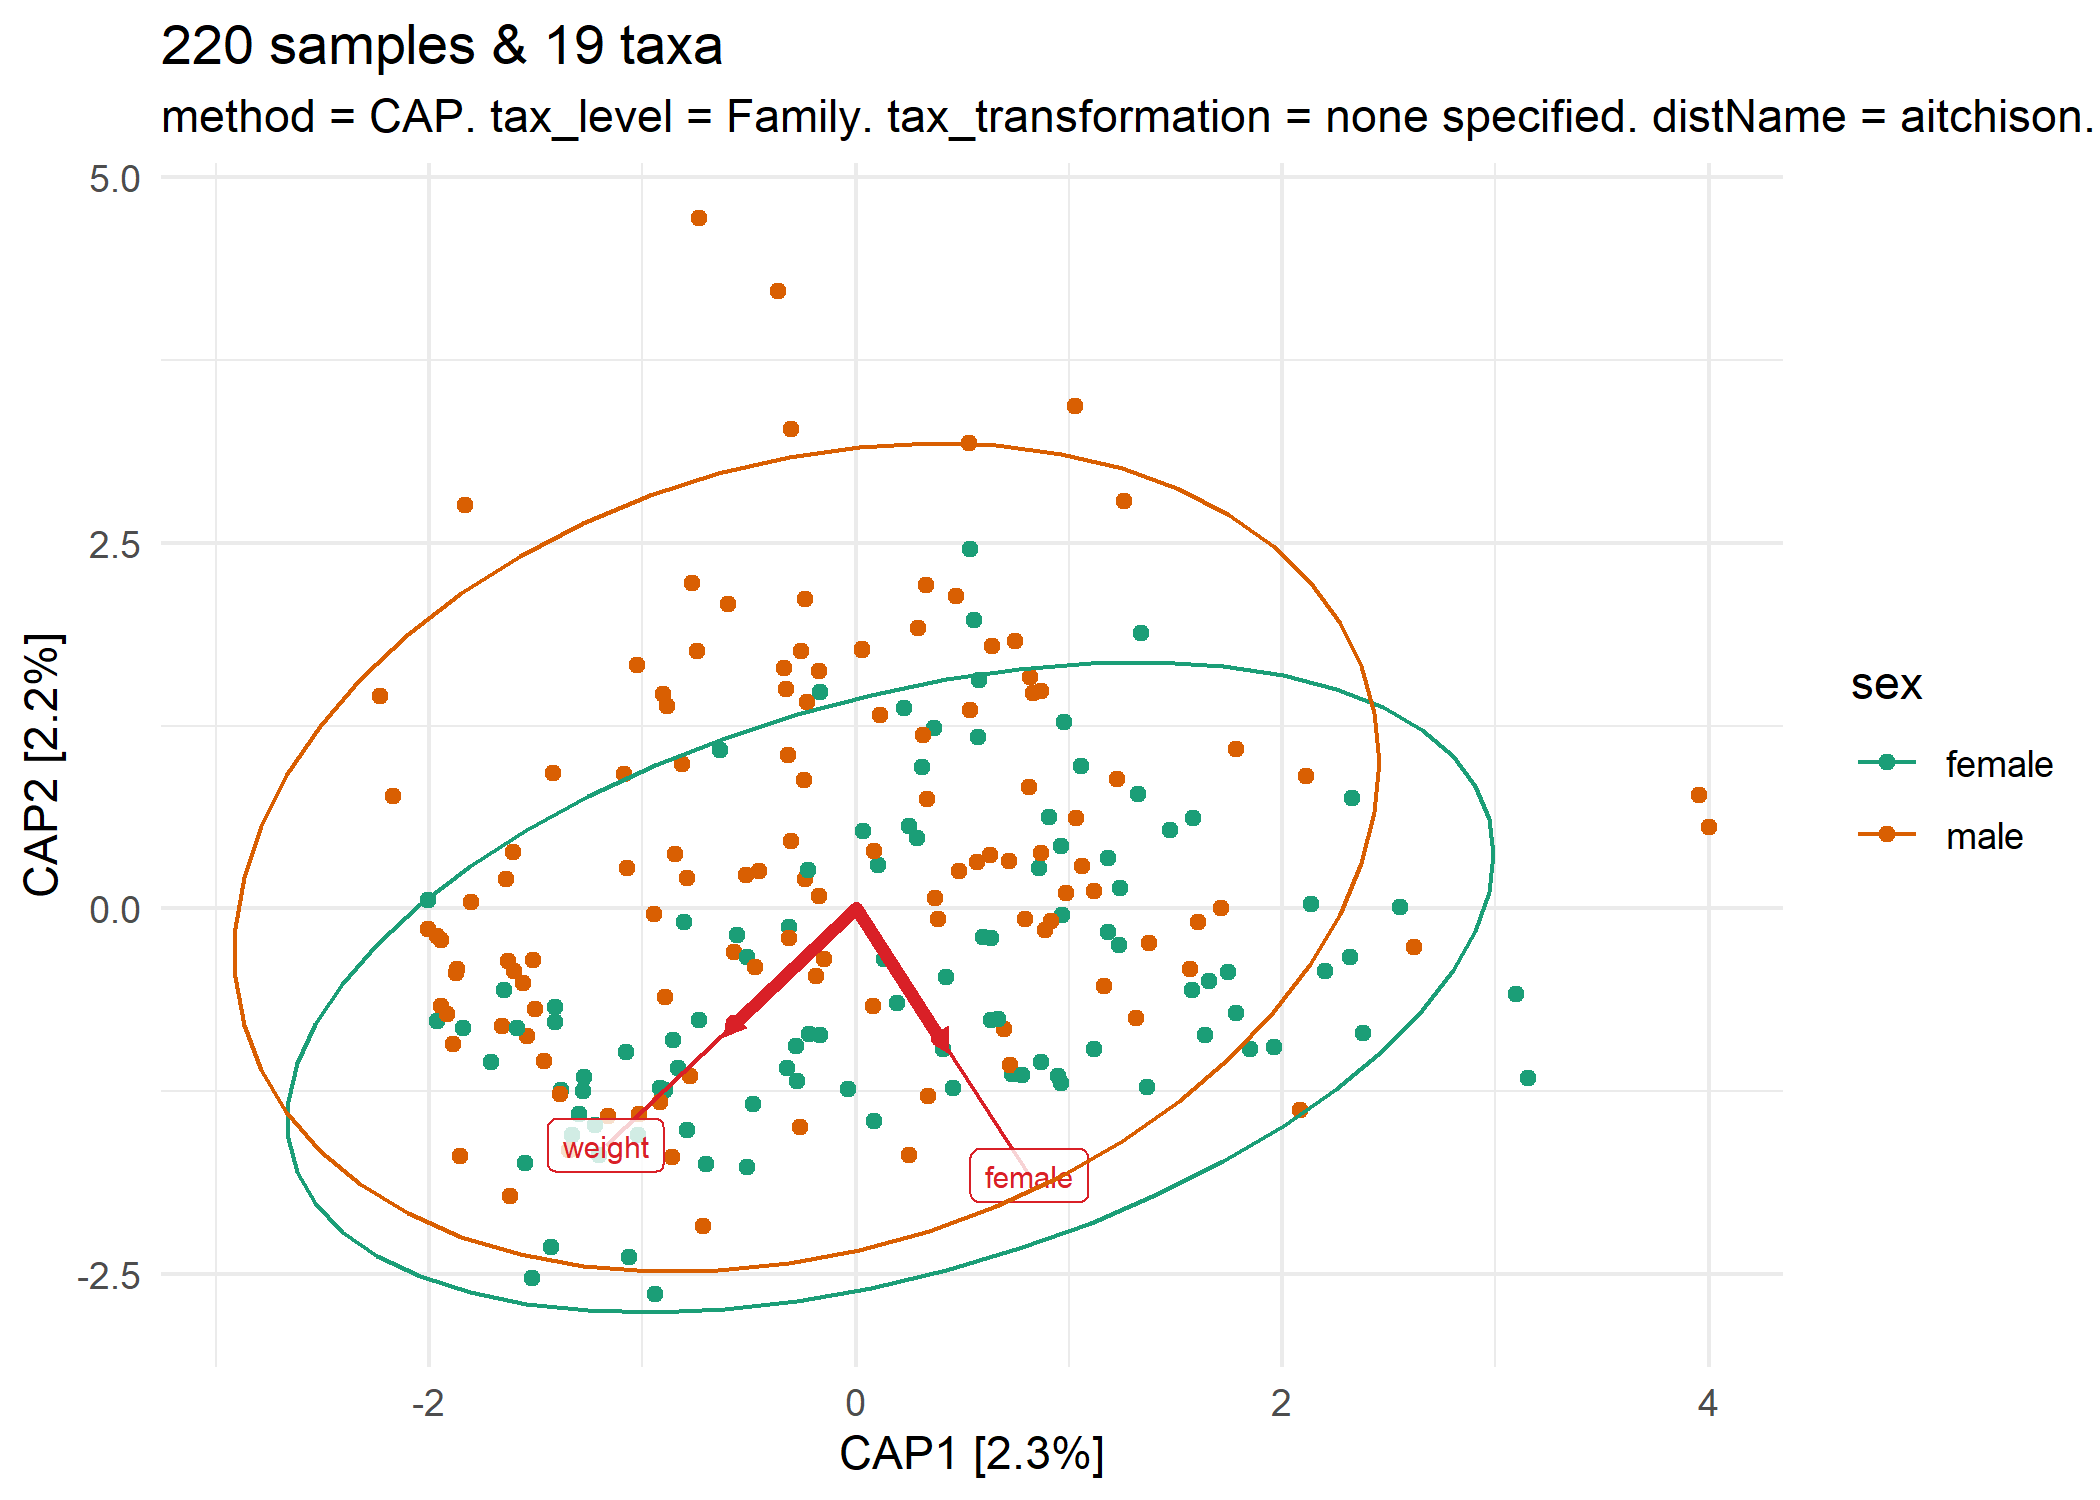
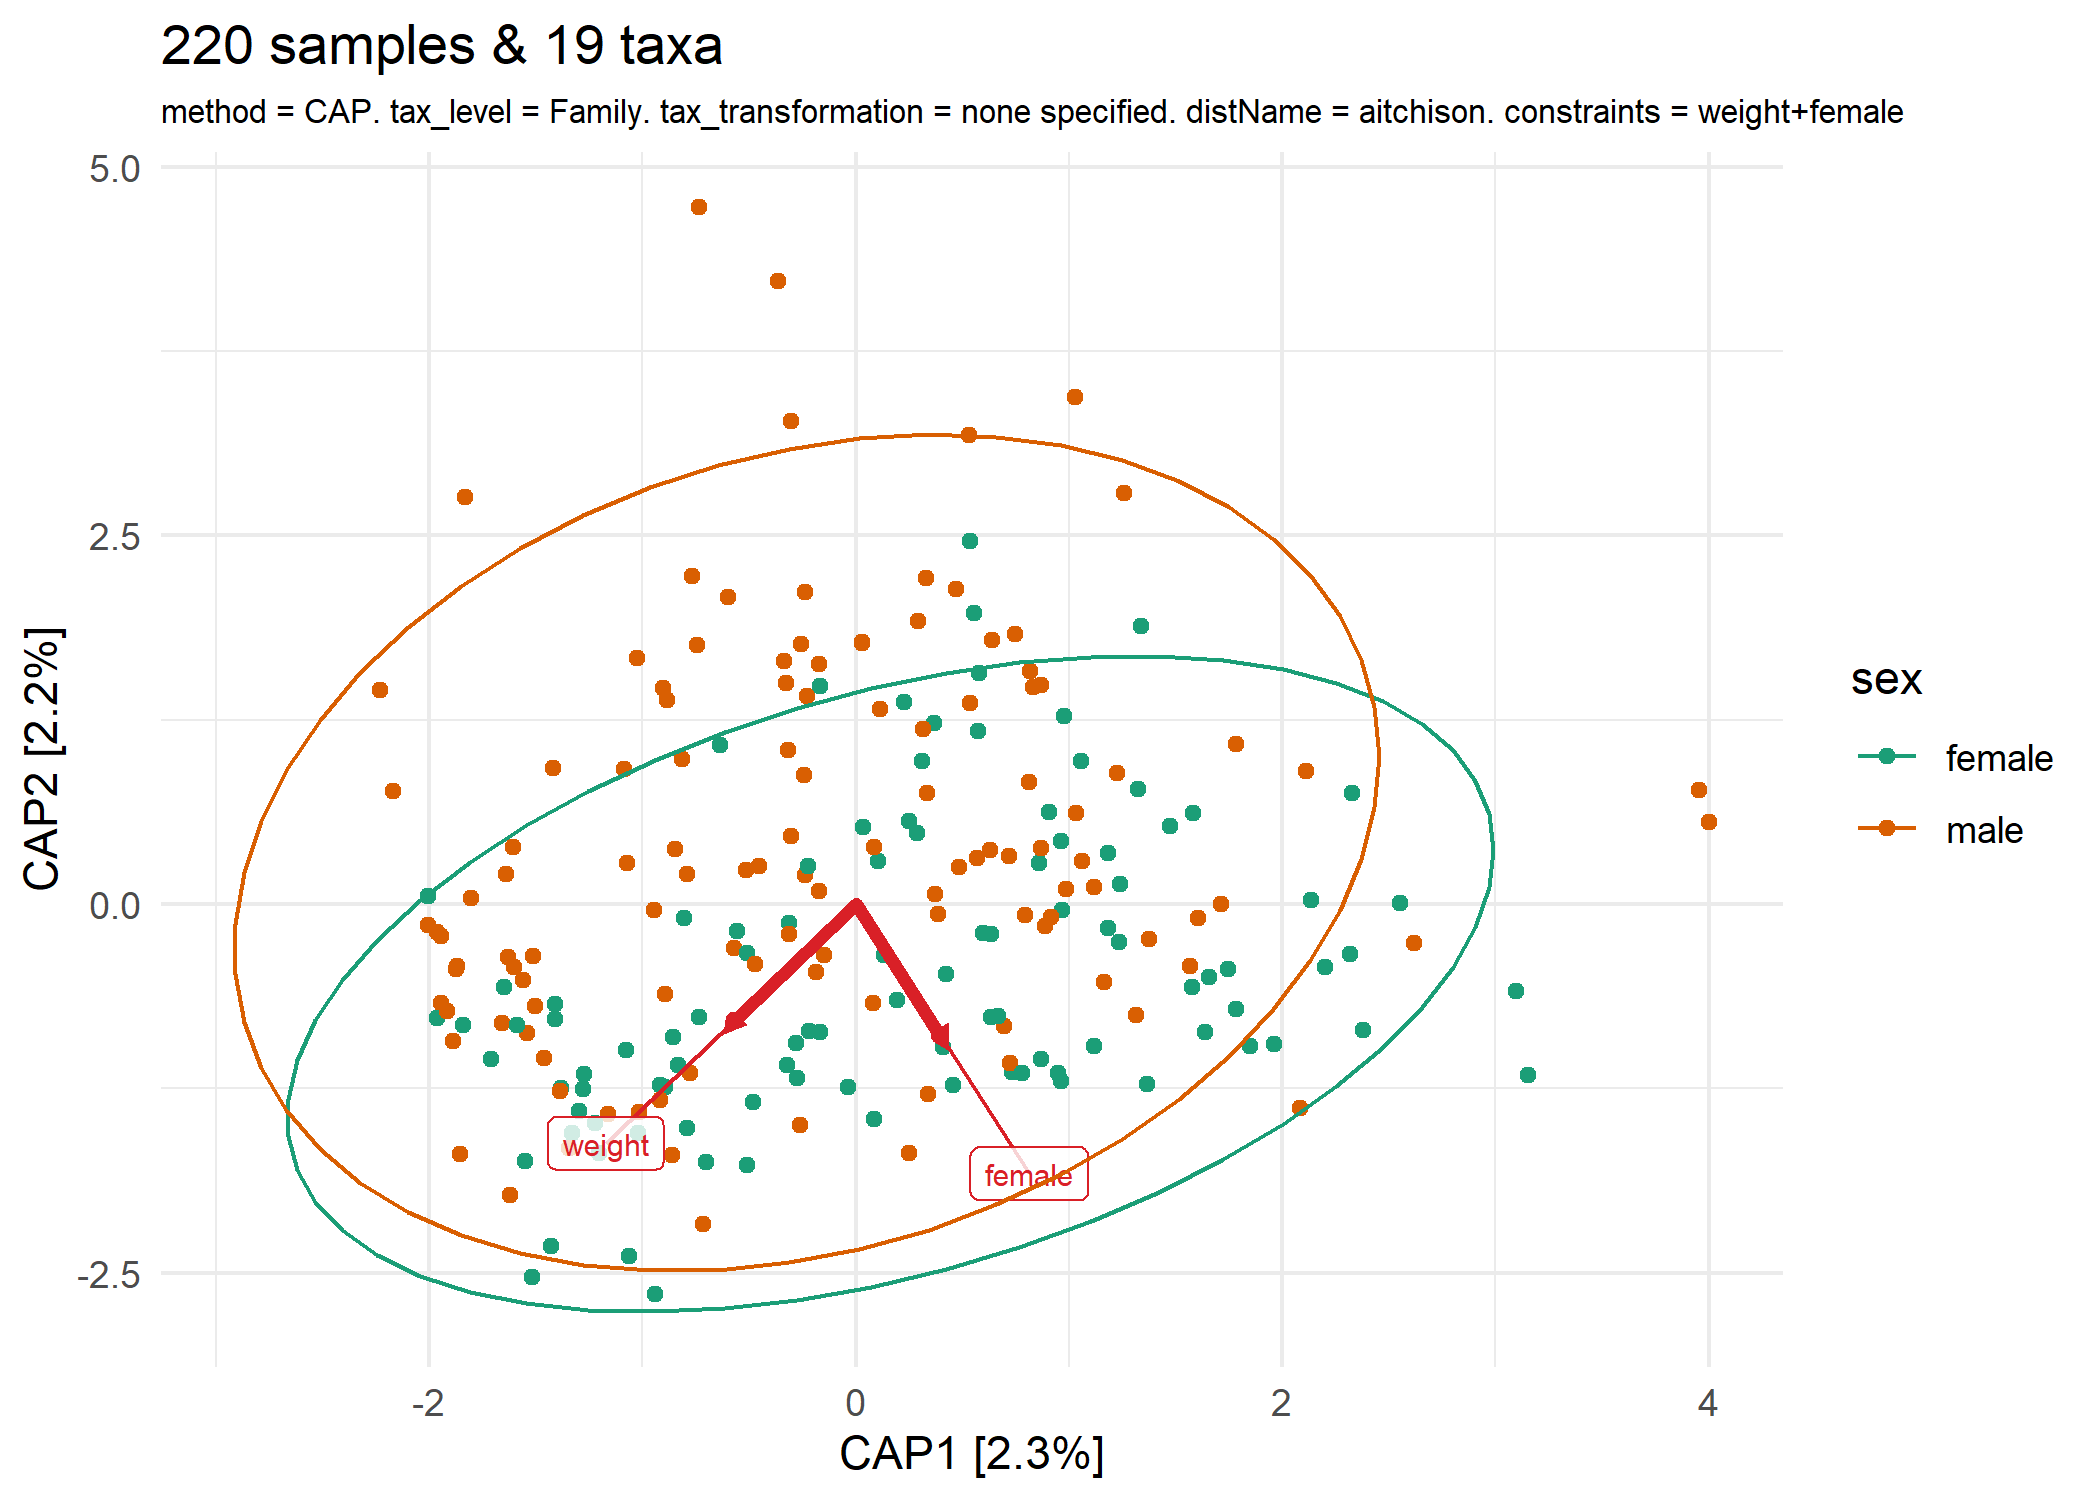
permanova fix: remove default seed and necessity of seed setting

diff --git a/README.md b/README.md
@@ -162,12 +162,14 @@ aitchison_dists <-
 
 # the more permutations you request, the longer it takes,
 # but also the more stable and precise your p-values become
-aitchison_perm <- permanova(aitchison_dists,
-  n_perms = 99, n_processes = 1,
+aitchison_perm <- permanova(
+  data = aitchison_dists,
+  seed = 1234, # for set.seed to ensure reproducibility of random process
+  n_perms = 99, n_processes = 1, 
   variables = c("bmi_group")
 )
-#> 2020-11-10 15:48:59 - Starting PERMANOVA with 99 perms with 1 processes
-#> 2020-11-10 15:48:59 - Finished PERMANOVA
+#> 2020-11-10 20:06:27 - Starting PERMANOVA with 99 perms with 1 processes
+#> 2020-11-10 20:06:27 - Finished PERMANOVA
 # view the permanova results
 aitchison_perm$permanova
 #> 
@@ -204,10 +206,10 @@ your permanova directly using the plot\_ordin8 function with
 constraints.
 
 ``` r
-perm2 <- permanova(aitchison_dists, variables = c("weight", "female"))
+perm2 <- permanova(data = aitchison_dists, variables = c("weight", "female"), seed = 321)
 #> WARNING: Dropping samples with NAs for "female". At least 2
-#> 2020-11-10 15:48:59 - Starting PERMANOVA with 999 perms with 1 processes
-#> 2020-11-10 15:49:01 - Finished PERMANOVA
+#> 2020-11-10 20:06:27 - Starting PERMANOVA with 999 perms with 1 processes
+#> 2020-11-10 20:06:29 - Finished PERMANOVA
 perm2$permanova
 #> 
 #> Call:
@@ -228,7 +230,8 @@ perm2$permanova
 
 ordin8(perm2, constraints = c("weight", "female")) %>%
   plot_ordin8(colour = "sex", constraint_label_length = 2) +
-  stat_ellipse(aes(colour = sex)) + scale_color_brewer(palette = "Dark2")
+  stat_ellipse(aes(colour = sex)) + scale_color_brewer(palette = "Dark2") +
+  theme(plot.subtitle = element_text(size = 8))
 #> 
 #> Centering (mean) and scaling (sd) the constraint and conditioning vars:
 #>  weight
@@ -243,14 +246,16 @@ me if you want this.
 
 ``` r
 # example with interactions
-permanova(aitchison_dists,
+permanova(
+  data = aitchison_dists,
   variables = c("bmi_group", "sex"),
   interactions = "bmi_group * sex",
+   seed = 123, 
   adonis2 = TRUE, # important when testing interactions
   return = "permanova" # return only the permanova output
 )
-#> 2020-11-10 15:49:01 - Starting PERMANOVA with 999 perms with 1 processes
-#> 2020-11-10 15:49:03 - Finished PERMANOVA
+#> 2020-11-10 20:06:30 - Starting PERMANOVA with 999 perms with 1 processes
+#> 2020-11-10 20:06:31 - Finished PERMANOVA
 #> Permutation test for adonis under reduced model
 #> Marginal effects of terms
 #> Permutation: free
